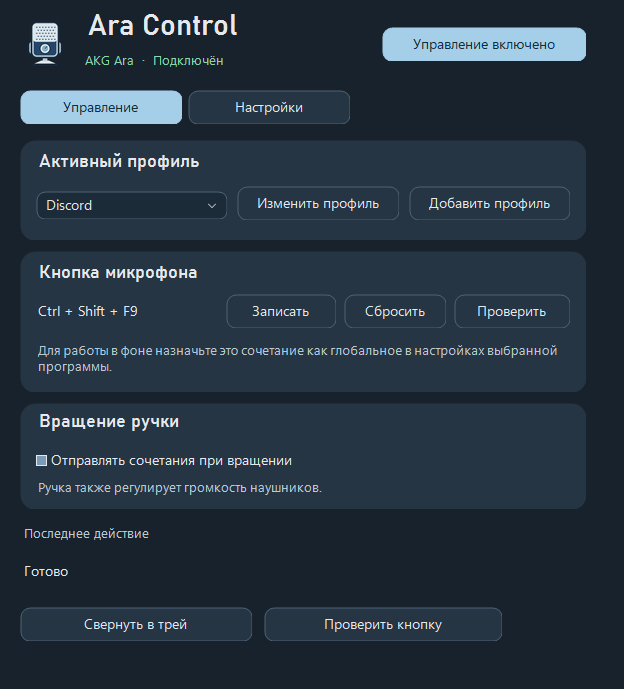
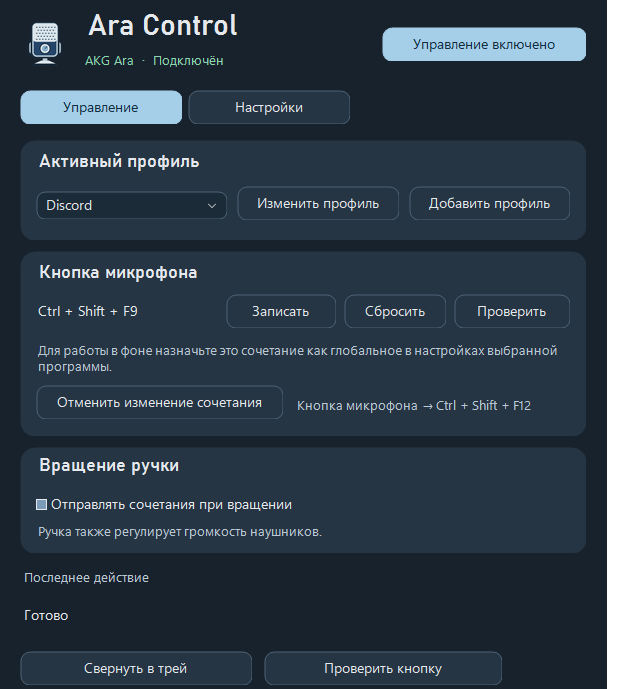
Pick profile processes by window and undo the last shortcut change

diff --git a/MainWindow.cs b/MainWindow.cs
@@ -220,7 +220,9 @@ sealed partial class MainWindow : Form
         Btn(profile, T("Edit profile"), 217, 46, 162, delegate { EditProfile(false); }, false);
         Btn(profile, T("Add profile"), 389, 46, 161, delegate { EditProfile(true); }, false);
 
-        var input = Card(surface, 251, 141);
+        var undo = active.LastShortcutChange;
+        int undoHeight = undo == null ? 0 : 44;
+        var input = Card(surface, 251, 141 + undoHeight);
         Caption(input, T("Microphone button"), 16, 7, 540, 32, heading, colors.Text);
         Caption(input, ChordLabel(active.Button), 16, 43, 183, 34, normal, colors.Text);
         Btn(input, T("Record"), 206, 43, 110, delegate { Record("button"); }, false);
@@ -231,9 +233,14 @@ sealed partial class MainWindow : Form
             : T("This shortcut is already assigned") + " · " + owner.Name;
         Caption(input, guide,
             16, 82, 533, 51, small, colors.Muted);
+        if (undo != null) {
+            Btn(input, T("Undo shortcut change"), 16, 134, 247, UndoShortcut, false);
+            string target = undo.Slot == "up" ? "Volume up" : undo.Slot == "down" ? "Volume down" : "Microphone button";
+            Caption(input, T(target) + " → " + ChordLabel(undo.Previous), 275, 134, 275, 41, small, colors.Muted);
+        }
 
         int height = active.Wheel ? 221 : 106;
-        var rotation = Card(surface, 403, height);
+        var rotation = Card(surface, 403 + undoHeight, height);
         Caption(rotation, T("Knob rotation"), 16, 5, 538, 31, heading, colors.Text);
         Check(rotation, T("Send shortcuts on rotation"), active.Wheel, 16, 42, 533, v => {
             active.Wheel = v; Save(); Render();
@@ -251,7 +258,7 @@ sealed partial class MainWindow : Form
             Btn(rotation, T(calibrating ? "Cancel" : "Identify clockwise turn"), 16, 176, 261,
                 delegate { calibrating = !calibrating; Note(calibrating ? "Turn the knob clockwise one step." : "Ready", null, null); Render(); }, false);
         }
-        int bottom = 414 + height;
+        int bottom = 414 + height + undoHeight;
         Caption(surface, T("Last action"), 22, bottom, 530, 26, small, colors.Muted);
         last = Caption(surface, "", 22, bottom + 26, 548, 49, normal, colors.Text);
         Btn(surface, T("Minimize to tray"), 20, bottom + 87, 232, Hide, false);
@@ -264,9 +271,58 @@ sealed partial class MainWindow : Form
     }
     void ResetButton() {
         testTimer.Stop();
-        active.Button = SettingsStore.DefaultButton(active.Process);
-        Save();
+        if (!ChangeShortcut("button", SettingsStore.DefaultButton(active.Process), true)) return;
         Note("Shortcut reset", null, ChordLabel(active.Button));
+        Render();
+    }
+
+    static readonly string[] ShortcutSlots = { "button", "up", "down" };
+
+    IEnumerable<ShortcutOwner> OtherOwners(string slot, string chord) {
+        for (int i = 0; i < settings.Profiles.Count; i++) {
+            var profile = settings.Profiles[i];
+            foreach (string otherSlot in ShortcutSlots) {
+                if (profile == active && otherSlot == slot) continue;
+                if (EqualChord(chord, profile.GetShortcut(otherSlot)))
+                    yield return new ShortcutOwner { ProfileIndex = i, Slot = otherSlot };
+            }
+        }
+    }
+    bool ChangeShortcut(string slot, string value, bool restoringDefault) {
+        string previous = active.GetShortcut(slot);
+        if (String.Equals(previous ?? "", value ?? "", StringComparison.OrdinalIgnoreCase) || EqualChord(previous, value))
+            return true;
+        if (!restoringDefault) {
+            var conflict = OtherOwners(slot, value).FirstOrDefault();
+            if (conflict != null) { ShowConflict(conflict); return false; }
+        }
+        var owners = OtherOwners(slot, previous).ToList();
+        var edit = new ShortcutEdit { Slot = slot, Previous = previous, PreviousOwners = owners.Count == 0 ? null : owners };
+        return StoreShortcut(slot, value, edit);
+    }
+    bool StoreShortcut(string slot, string value, ShortcutEdit nextUndo) {
+        var previous = active.GetShortcut(slot);
+        var previousUndo = active.LastShortcutChange;
+        active.SetShortcut(slot, value);
+        active.LastShortcutChange = nextUndo;
+        if (Save()) return true;
+        active.SetShortcut(slot, previous);
+        active.LastShortcutChange = previousUndo;
+        return false;
+    }
+    void ShowConflict(ShortcutOwner conflict) {
+        MessageBox.Show(this, T("This shortcut is already assigned") + " · " + settings.Profiles[conflict.ProfileIndex].Name, Text);
+    }
+    void UndoShortcut() {
+        var edit = active.LastShortcutChange;
+        if (edit == null || !ShortcutSlots.Contains(edit.Slot)) return;
+        // Old profiles can legitimately share a chord. Only reject new conflicts.
+        var conflict = OtherOwners(edit.Slot, edit.Previous).FirstOrDefault(owner =>
+            edit.PreviousOwners == null || !edit.PreviousOwners.Any(old => old.ProfileIndex == owner.ProfileIndex && old.Slot == owner.Slot));
+        if (conflict != null) { ShowConflict(conflict); return; }
+        testTimer.Stop();
+        if (!StoreShortcut(edit.Slot, edit.Previous, null)) return;
+        Note("Shortcut restored", null, ChordLabel(edit.Previous));
         Render();
     }
     void BuildSettings(Panel surface) {
@@ -331,9 +387,9 @@ sealed partial class MainWindow : Form
         testTimer.Stop(); calibrating = false; settings.Selected = i;
         Note("Ready", null, null); Save(); Post(Render);
     }
-    void Save() {
-        try { SettingsStore.Save(settings); }
-        catch (Exception ex) { MessageBox.Show(this, T("Settings could not be saved.") + Environment.NewLine + ex.Message, Text); }
+    bool Save() {
+        try { SettingsStore.Save(settings); return true; }
+        catch (Exception ex) { MessageBox.Show(this, T("Settings could not be saved.") + Environment.NewLine + ex.Message, Text); return false; }
     }
     void Note(string kind, string result, string value) {
         lastKind = kind; lastResult = result; lastValue = value;
@@ -423,7 +479,7 @@ sealed partial class MainWindow : Form
         if (!settings.Enabled || (e != "button" && !active.Wheel)) { Note(kind, null, null); return; }
         Send(GetChord(e), kind);
     }
-    string GetChord(string e) { return e == "button" ? active.Button : e == "up" ? active.Up : active.Down; }
+    string GetChord(string e) { return active.GetShortcut(e); }
     void Test() {
         testTimer.Stop();
         if (active.FocusOnly) {
@@ -479,7 +535,7 @@ sealed partial class MainWindow : Form
                 nameField.SetEditor(name);
                 Caption(form, T("Application process"), 20, 85, 385, 27, normal, colors.Text);
                 var processField = new ProfileField(colors, scale) { Font = normal };
-                Put(form, processField, 20, 118, 390, 34);
+                Put(form, processField, 20, 118, 219, 34);
                 var process = Combo(processField, 0, 0, 390);
                 process.DropDownStyle = ComboBoxStyle.DropDown;
                 process.AccessibleName = T("Application process");
@@ -489,6 +545,13 @@ sealed partial class MainWindow : Form
                     using (proc) { try { names.Add(proc.ProcessName); } catch (InvalidOperationException) {} catch (System.ComponentModel.Win32Exception) {} }
                 }
                 process.Items.AddRange(names.Cast<object>().ToArray()); process.Text = adding ? "" : active.Process;
+                Btn(form, T("Choose window"), 247, 118, 163, delegate {
+                    var picked = WindowPicker.Pick(form, T("Click an application window. Press Esc to cancel."),
+                        T("Choose an open application window, or press Esc to cancel."));
+                    if (picked == null) return;
+                    process.Text = picked;
+                    if (adding && String.IsNullOrWhiteSpace(name.Text)) name.Text = picked;
+                }, false);
                 var ok = Btn(form, T("Save"), 22, 183, 183, delegate {
                     string n = name.Text.Trim(); string p = process.Text.Trim();
                     if (p.EndsWith(".exe", StringComparison.OrdinalIgnoreCase)) p = p.Substring(0, p.Length - 4);
@@ -539,19 +602,7 @@ sealed partial class MainWindow : Form
                     save.Focus();
                 };
                 if (form.ShowDialog(this) != DialogResult.OK || form.Chord == null) return;
-                if (!EqualChord(form.Chord, GetChord(slot))) {
-                    foreach (var profile in settings.Profiles) {
-                        if ((profile != active || slot != "button") && EqualChord(form.Chord, profile.Button)
-                            || (profile != active || slot != "up") && EqualChord(form.Chord, profile.Up)
-                            || (profile != active || slot != "down") && EqualChord(form.Chord, profile.Down)) {
-                            MessageBox.Show(this, T("This shortcut is already assigned") + " · " + profile.Name, Text); return;
-                        }
-                    }
-                }
-                if (slot == "button") active.Button = form.Chord;
-                else if (slot == "up") active.Up = form.Chord;
-                else active.Down = form.Chord;
-                Save(); Render();
+                if (ChangeShortcut(slot, form.Chord, false)) Render();
             }
         } finally { dialogOpen = false; }
     }

diff --git a/WindowPicker.cs b/WindowPicker.cs
@@ -1,0 +1,118 @@
+using System;
+using System.ComponentModel;
+using System.Diagnostics;
+using System.Drawing;
+using System.Runtime.InteropServices;
+using System.Text;
+using System.Windows.Forms;
+
+// A temporary topmost surface consumes the entire selection click before
+// looking beneath it. Normal application clicks never need to be monitored.
+internal sealed class WindowPicker : Form
+{
+    [DllImport("user32.dll")] static extern IntPtr WindowFromPoint(Point point);
+    [DllImport("user32.dll")] static extern IntPtr GetAncestor(IntPtr window, uint flags);
+    [DllImport("user32.dll")] static extern uint GetWindowThreadProcessId(IntPtr window, out uint pid);
+    [DllImport("user32.dll", CharSet = CharSet.Unicode)]
+    static extern int GetClassName(IntPtr window, StringBuilder name, int length);
+
+    readonly ToolTip hint = new ToolTip();
+    readonly string instruction, retry;
+    readonly Point hintLocation;
+    bool selecting;
+    string selected;
+
+    WindowPicker(Form owner, string instruction, string retry) {
+        this.instruction = instruction;
+        this.retry = retry;
+        AutoScaleMode = AutoScaleMode.None;
+        FormBorderStyle = FormBorderStyle.None;
+        StartPosition = FormStartPosition.Manual;
+        ShowInTaskbar = false;
+        TopMost = true;
+        BackColor = Color.Black;
+        Opacity = 0.14;
+        Cursor = Cursors.Cross;
+        Text = AccessibleName = instruction;
+        var desktop = SystemInformation.VirtualScreen;
+        MaximumSize = desktop.Size;
+        Bounds = desktop;
+        var screen = Screen.FromControl(owner).WorkingArea;
+        hintLocation = new Point(screen.Left - desktop.Left + 24, screen.Top - desktop.Top + 24);
+    }
+
+    public static string Pick(Form editor, string instruction, string retry) {
+        Form main = editor.Owner;
+        double editorOpacity = editor.Opacity;
+        double mainOpacity = main == null ? 1 : main.Opacity;
+        using (var picker = new WindowPicker(editor, instruction, retry)) {
+            try {
+                // Zero-alpha layered windows do not participate in hit testing.
+                // Keep the existing modal editor and its unsaved values alive.
+                editor.Opacity = 0;
+                if (main != null) main.Opacity = 0;
+                return picker.ShowDialog(editor) == DialogResult.OK ? picker.selected : null;
+            } finally {
+                if (main != null) main.Opacity = mainOpacity;
+                editor.Opacity = editorOpacity;
+                editor.Activate();
+            }
+        }
+    }
+
+    protected override void OnShown(EventArgs e) {
+        base.OnShown(e);
+        hint.Show(instruction, this, hintLocation.X, hintLocation.Y);
+    }
+
+    protected override bool ProcessCmdKey(ref Message message, Keys keys) {
+        if (keys == Keys.Escape) { DialogResult = DialogResult.Cancel; return true; }
+        return base.ProcessCmdKey(ref message, keys);
+    }
+
+    protected override void OnMouseDown(MouseEventArgs e) {
+        base.OnMouseDown(e);
+        selecting = e.Button == MouseButtons.Left;
+    }
+
+    protected override void OnMouseUp(MouseEventArgs e) {
+        base.OnMouseUp(e);
+        if (e.Button != MouseButtons.Left || !selecting) return;
+        selecting = false;
+        var point = PointToScreen(e.Location);
+        hint.Hide(this);
+        Opacity = 0;
+        selected = ProcessAt(point);
+        if (selected != null) DialogResult = DialogResult.OK;
+        else {
+            Opacity = 0.14;
+            hint.Show(retry, this, hintLocation.X, hintLocation.Y);
+        }
+    }
+
+    static string ProcessAt(Point point) {
+        const uint rootWindow = 2;
+        IntPtr window = GetAncestor(WindowFromPoint(point), rootWindow);
+        if (window == IntPtr.Zero) return null;
+        var cls = new StringBuilder(128);
+        GetClassName(window, cls, cls.Capacity);
+        switch (cls.ToString()) {
+            case "Progman": case "WorkerW": case "Shell_TrayWnd": case "Shell_SecondaryTrayWnd":
+                return null;
+        }
+        uint id;
+        GetWindowThreadProcessId(window, out id);
+        using (var self = Process.GetCurrentProcess())
+            if (id == 0 || id == self.Id) return null;
+        try {
+            using (var process = Process.GetProcessById((int)id)) return process.ProcessName;
+        } catch (ArgumentException) { return null; }
+        catch (InvalidOperationException) { return null; }
+        catch (Win32Exception) { return null; }
+    }
+
+    protected override void Dispose(bool disposing) {
+        if (disposing) hint.Dispose();
+        base.Dispose(disposing);
+    }
+}

diff --git a/Appearance.cs b/Appearance.cs
@@ -86,6 +86,8 @@ internal static class Texts
         { "Connect the AKG Ara and try again.", new[] { "Підключіть AKG Ara і повторіть перевірку.", "Подключите AKG Ara и повторите проверку." } },
         { "The selected profile changed.", new[] { "Вибрано інший профіль.", "Выбран другой профиль." } },
         { "Record", new[] { "Записати", "Записать" } },
+        { "Undo shortcut change", new[] { "Скасувати зміну комбінації", "Отменить изменение сочетания" } },
+        { "Shortcut restored", new[] { "Попередню комбінацію відновлено", "Прежнее сочетание восстановлено" } },
         { "Reset", new[] { "Скинути", "Сбросить" } },
         { "Shortcut reset", new[] { "Початкову комбінацію відновлено", "Сочетание по умолчанию восстановлено" } },
         { "Test", new[] { "Перевірити", "Проверить" } },
@@ -127,6 +129,9 @@ internal static class Texts
         { "Exit", new[] { "Вийти", "Выход" } },
         { "Profile name", new[] { "Назва профілю", "Название профиля" } },
         { "Application process", new[] { "Процес програми", "Процесс программы" } },
+        { "Choose window", new[] { "Вибрати вікно", "Выбрать окно" } },
+        { "Click an application window. Press Esc to cancel.", new[] { "Клацніть вікно потрібної програми. Esc — скасувати.", "Щёлкните по окну нужной программы. Esc — отменить." } },
+        { "Choose an open application window, or press Esc to cancel.", new[] { "Виберіть відкрите вікно програми або натисніть Esc, щоб скасувати.", "Выберите открытое окно программы или нажмите Esc для отмены." } },
         { "Save", new[] { "Зберегти", "Сохранить" } },
         { "Cancel", new[] { "Скасувати", "Отмена" } },
         { "Enter a profile name and process.", new[] { "Вкажіть назву профілю та процес програми.", "Укажите название профиля и процесс программы." } },

diff --git a/Core.cs b/Core.cs
@@ -13,13 +13,39 @@ using Microsoft.Win32.SafeHandles;
 [assembly: AssemblyTitle("Ara Control")]
 [assembly: AssemblyProduct("Ara Control")]
 [assembly: AssemblyDescription("Windows controls for the AKG Ara USB microphone")]
-[assembly: AssemblyVersion("1.3.0.0")]
-[assembly: AssemblyFileVersion("1.3.0.0")]
+[assembly: AssemblyVersion("1.4.0.0")]
+[assembly: AssemblyFileVersion("1.4.0.0")]
 
 public class Profile {
  public string Name, Process, Button, Up, Down;
  public bool Wheel, FocusOnly;
+ public ShortcutEdit LastShortcutChange;
+ public string GetShortcut(string slot) {
+  switch(slot) {
+   case "button": return Button;
+   case "up": return Up;
+   case "down": return Down;
+   default: throw new ArgumentOutOfRangeException("slot");
+  }
+ }
+ public void SetShortcut(string slot, string value) {
+  switch(slot) {
+   case "button": Button = value; break;
+   case "up": Up = value; break;
+   case "down": Down = value; break;
+   default: throw new ArgumentOutOfRangeException("slot");
+  }
+ }
  public override string ToString(){return Name;}
+}
+public class ShortcutEdit {
+ public string Slot, Previous;
+ public List<ShortcutOwner> PreviousOwners;
+}
+public class ShortcutOwner {
+ // Profiles keep their position when selected or renamed; new profiles are appended.
+ public int ProfileIndex;
+ public string Slot;
 }
 public class Settings {
  public List<Profile> Profiles = new List<Profile>();

diff --git a/README.ru.md b/README.ru.md
@@ -21,7 +21,9 @@
 | --- | --- |
 | Кнопка микрофона | Нажмите **«Записать»**, введите сочетание и нажмите **«Сохранить»**. **«Отмена»** сохраняет прежнюю привязку. **«Сбросить»** возвращает значение по умолчанию. Для Discord это **Ctrl + Shift + F9**. |
 | Ручка громкости | Вращение регулирует громкость наушников. Если включить **«Отправлять сочетания при вращении»**, каждому направлению можно дополнительно назначить свою команду. |
-| Другое голосовое приложение | Нажмите **«Добавить профиль»**, укажите название и выберите процесс приложения. Назначьте одно и то же сочетание в профиле и в самом приложении. Профиль выбирается вручную в окне Ara Control или через значок в трее. |
+| Другое голосовое приложение | Нажмите **«Добавить профиль → Выбрать окно»** и щёлкните по окну мессенджера. Ara Control подставит имя процесса. Нажмите **Esc**, чтобы отменить выбор, или введите процесс вручную. Сохраните профиль и назначьте такое же сочетание в мессенджере. Профили переключаются вручную в окне или через трей. |
+
+После изменения сочетания появляется кнопка **«Отменить изменение сочетания»**. Она возвращает прежнюю привязку кнопки или ручки, в том числе после очистки или сброса. Для каждого профиля запоминается одно последнее изменение, которое можно отменить и после перезапуска.
 
 ### Если одновременно открыты Discord и Telegram
 

diff --git a/README.md b/README.md
@@ -29,8 +29,10 @@ To reopen the window, double-click the microphone icon in the notification area 
 | --- | --- |
 | Microphone button | Choose **Record**, press your shortcut, then **Save**. **Cancel** discards the edit. **Reset** restores the profile default, which is **Ctrl + Shift + F9** for Discord. |
 | Volume knob | Turning the knob keeps its normal headphone-volume function. Enable **Send shortcuts on rotation** to also send a separate shortcut in each direction. |
-| Other voice apps | Choose **Add profile**, enter a name and select the app’s process. Assign the same shortcut in Ara Control and the voice app. Select the profile manually in the window or tray. |
+| Other voice apps | Choose **Add profile → Choose window**, then click the voice app’s window. Ara Control fills in the process name. Press **Esc** to cancel, or enter the process manually. Choose **Save** and assign the same shortcut in the voice app. Switch profiles manually in the window or tray. |
 | Window focus | For background use, give each app a unique global shortcut. To restrict a profile to the foreground, enable **Only send when the target window is active** under **Settings**. |
+
+After saving a shortcut change, choose **Undo shortcut change** to restore the previous button or knob binding. Each profile remembers its most recent edit, including a clear or reset, across restarts.
 
 **Example: two calls at once.** With the Discord profile selected and the foreground option on, press the button while Discord is active to deafen the call. Switch to Telegram and press again. The Ara microphone turns back on for Telegram, while Discord stays deafened because Ara Control skips the shortcut. With the option off, the second press can also turn off Deafen in Discord. The physical button always toggles the microphone itself, regardless of which profile you select.
 
